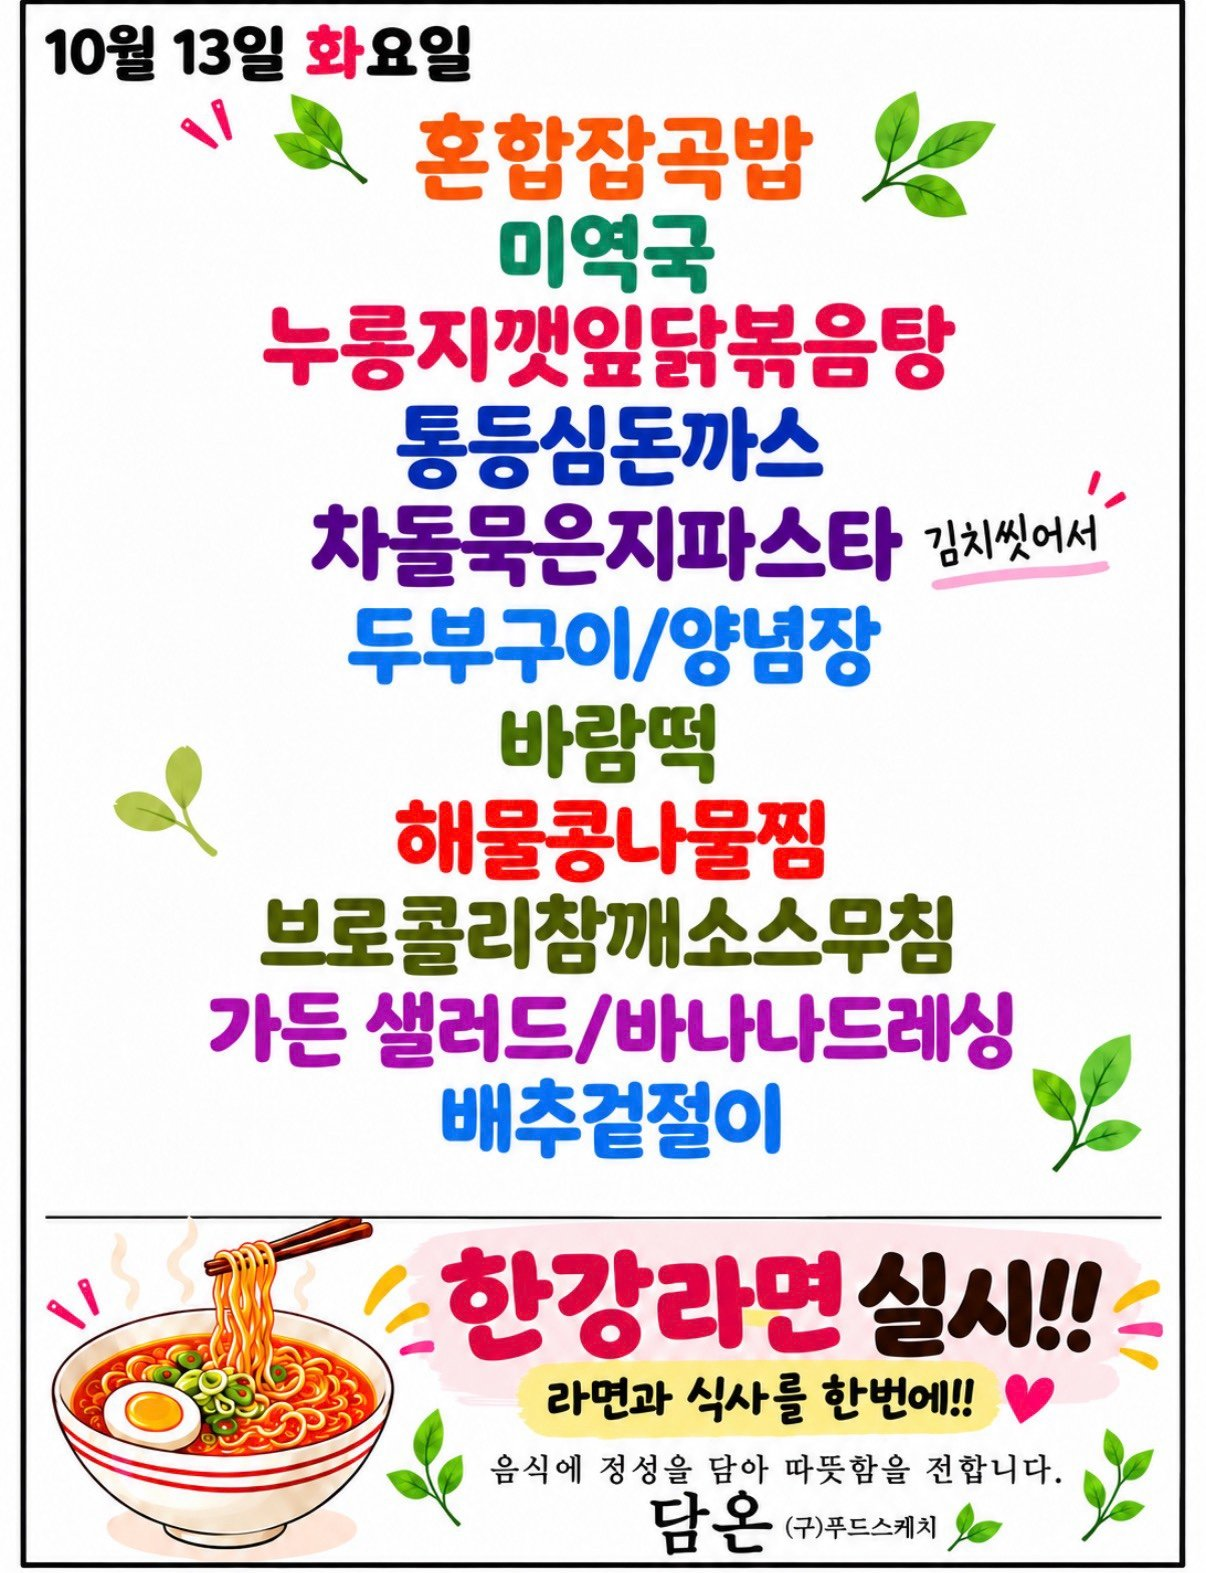
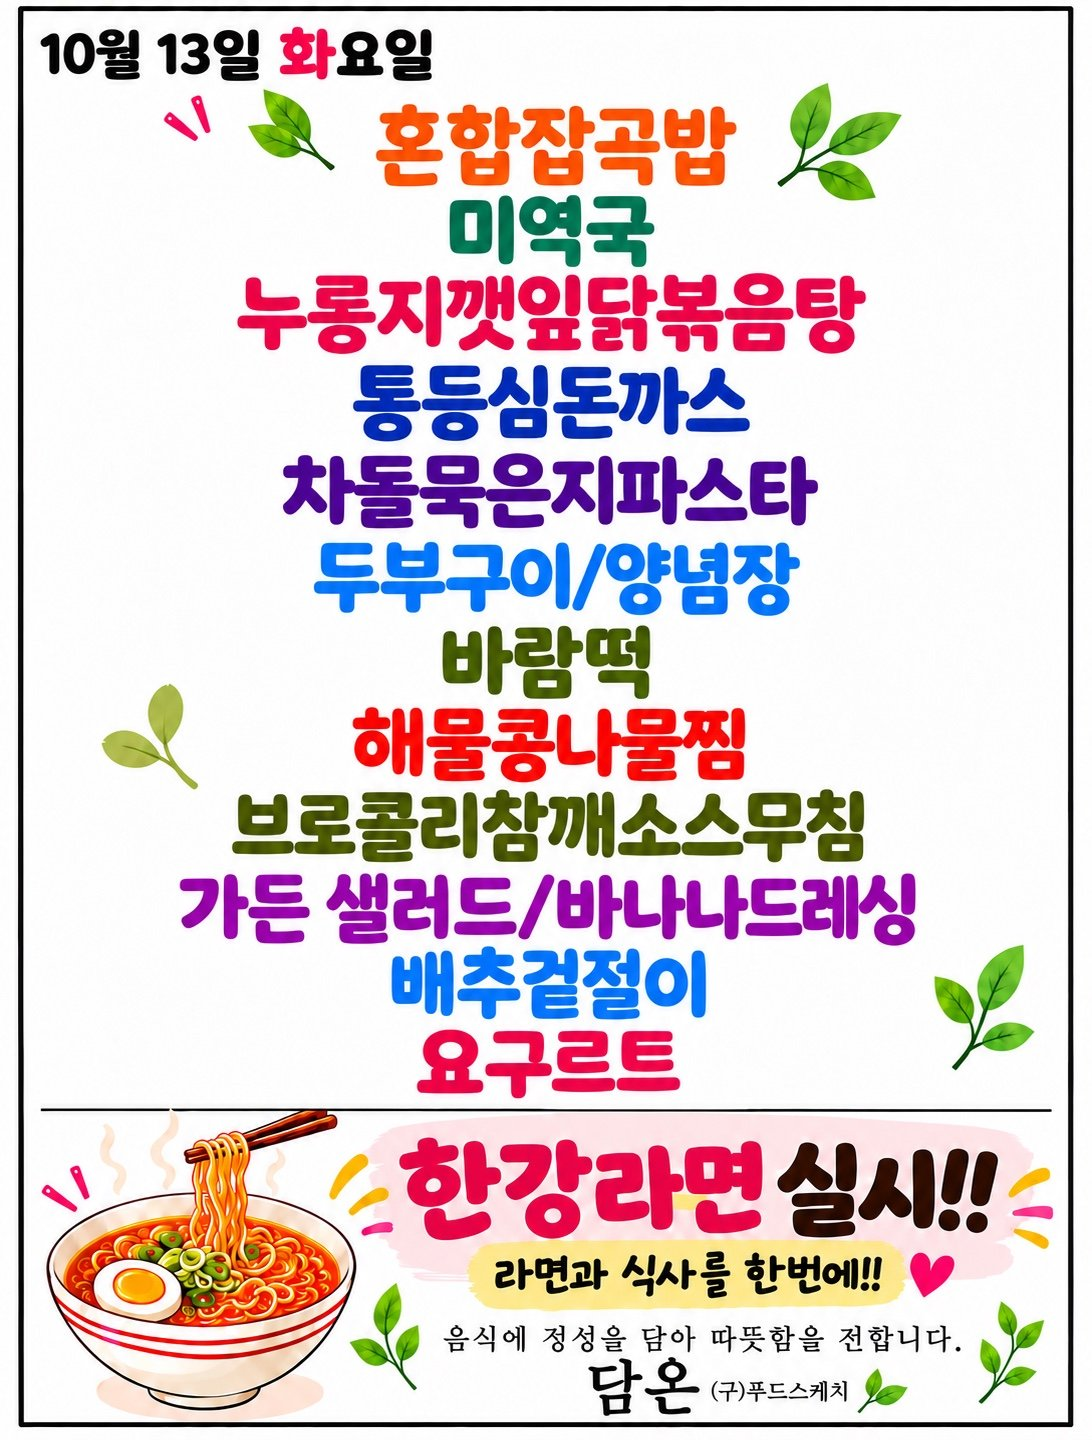
Update menu board assets

diff --git a/menu-today/index.html b/menu-today/index.html
@@ -209,7 +209,7 @@
 
     <section class="meta-bar">
       <div class="meta-card"><div class="meta-label">기준 날짜</div><div class="meta-value">2026년 10월 13일 화요일</div></div>
-      <div class="meta-card"><div class="meta-label">최종 가져온 시간</div><div class="meta-value">2026-10-13 09:13:10</div></div>
+      <div class="meta-card"><div class="meta-label">최종 가져온 시간</div><div class="meta-value">2026-10-13 09:18:06</div></div>
       <div class="meta-card"><div class="meta-label">확인 완료</div><div class="meta-value">9개 식당</div></div>
       <div class="meta-card"><div class="meta-label">준비중</div><div class="meta-value">3개 채널</div></div>
     </section>
@@ -295,7 +295,7 @@
             <div class="sub">에이스테크노타워10차</div>
           </div>
         </div>
-        <div class="menu-inline-image"><img src="./images/thefoodsketch.png" alt="더푸드스케치 식단 이미지"></div><ul><li>혼합잡곡밥</li><li>미역국 개</li><li>통등심돈까스 티</li><li>두부구이 / 양념장</li><li>해물콩나물찜</li><li>브로콜리참깨소스무침</li><li>가든 샐러드 / 바나나드레싱</li><li>배추걸절이 «=</li><li>^한강라면실시</li></ul>
+        <div class="menu-inline-image"><img src="./images/thefoodsketch.png" alt="더푸드스케치 식단 이미지"></div><ul><li>미역국</li><li>통등심돈까스</li><li>차돌묵은지파스타</li><li>두부구이 / 양념장</li><li>바람떡</li><li>= 해물콩나물찜</li><li>브로콜리참깨소스무침</li><li>가든 샐러드 / 바나나드레싱</li><li>배추겉절이 vf</li><li>요구르트</li></ul>
       </article>
 
       <article class="restaurant-card">

diff --git a/guro-menu/index.html b/guro-menu/index.html
@@ -32,7 +32,7 @@
   </header>
   <section class="meta">
     <div><small>기준 날짜</small><strong>2026년 10월 13일 화요일</strong></div>
-    <div><small>최종 갱신</small><strong>2026-10-13 09:13:21</strong></div>
+    <div><small>최종 갱신</small><strong>2026-10-13 09:18:18</strong></div>
     <div><small>등록 식당</small><strong>5개</strong></div>
   </section>
   <div class="notice">공개 카카오 채널의 메뉴 이미지를 자동 수집하고 OCR로 정리합니다. 텍스트에 오타가 있을 수 있으니 식단 이미지를 함께 확인해 주세요.</div>
